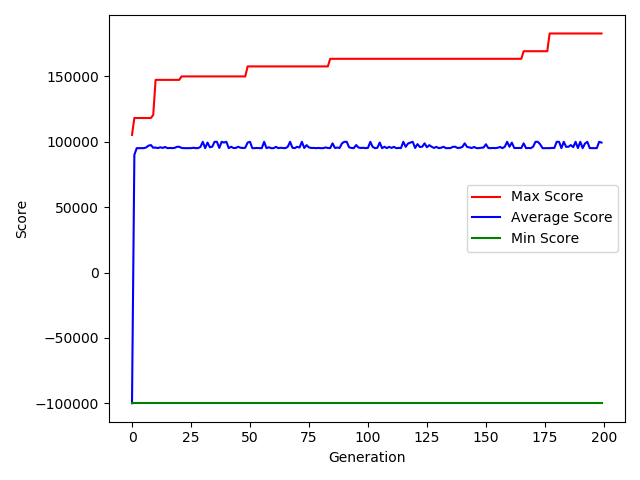
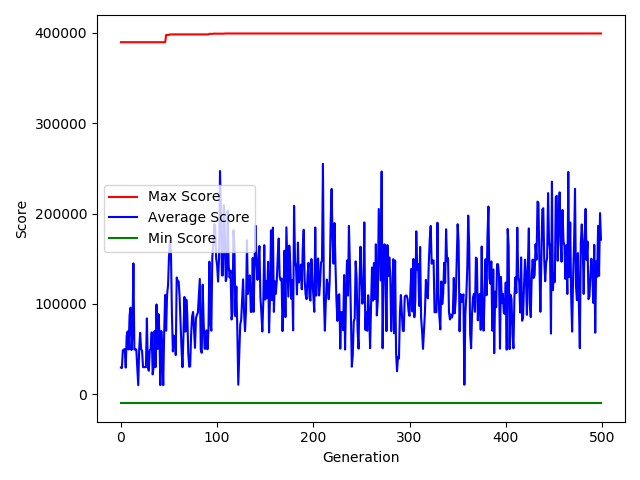
buena ql

diff --git a/varfindnumb.py b/varfindnumb.py
@@ -1,0 +1,39 @@
+from algoritmo.auxfun import ez_plot
+from algoritmo.genetico import AlgoritmoGenetico
+from condicion.condicion import IteracionesCondicion
+from ffuncion.fitnessfunctions import VarCheckIgualdad
+from structs.ast import *
+
+
+allowed_functions = [AddNode, SubNode, MultNode]
+allowed_terminals = [-10, 2, 3, 4, 10, 'x', 'x', 'x', 'x', 'x']
+
+
+meta = AddNode(
+    SubNode(
+        MultNode(
+            TerminalVariableNode('x'),
+            TerminalVariableNode('x')
+        ),
+        TerminalNode(6)
+    ),
+    TerminalVariableNode('x')
+)
+
+
+ci = IteracionesCondicion(500)
+
+ff = VarCheckIgualdad(meta, 1000, 1000)
+
+ast = AST(allowed_functions, allowed_terminals)
+
+
+def generate_pop(n, depth, ast):
+    return [ast(2) for _ in range(n)]
+
+
+ag = AlgoritmoGenetico(20, ff, ast, 0.4, ci, 2, generate_pop)
+
+res = ag.run()
+
+ez_plot(res)

diff --git a/ffuncion/fitnessfunctions.py b/ffuncion/fitnessfunctions.py
@@ -70,3 +70,20 @@ class IgualdadValorFormulaYProfundidadSinRepeticion(IgualdadValorFormulaYProfund
         gamma = nodo.depth(0) - 1
         score2 = (MAX_SCORE - gamma*MAX_SCORE / self.ddw)
         return max(score1 + score2, -MAX_SCORE)
+
+
+class VarCheckIgualdad(IgualdadValorFormulaYProfundidad):
+    def aplicar(self, nodo):
+        MAX_SCORE = 1000
+        total_score = 0
+        for v in range(-100, 100, 1):
+            nodo.set_val('x', v)
+            self.meta.set_val('x', v)
+            val1 = nodo.eval()
+            val2 = self.meta.eval()
+            delta = abs(val1 - val2) * MAX_SCORE / self.vdw
+            score1 = MAX_SCORE - delta
+            gamma = nodo.depth(0) - 1
+            score2 = (MAX_SCORE - gamma * MAX_SCORE / self.ddw)
+            total_score += score1 + score2
+        return max(total_score, -10*MAX_SCORE)

diff --git a/structs/ast.py b/structs/ast.py
@@ -40,7 +40,10 @@ class AST:
             else:
                 # si `depth` es 0 entonces creamos un nodo terminal con
                 # alguno de los terminales permitidos que definimos inicialmente
-                return TerminalNode(random.choice(self.terminals))
+                c = random.choice(self.terminals)
+                if isinstance(c, str):
+                    return TerminalVariableNode(c)
+                return TerminalNode(c)
 
         # llamamos a la funcion auxiliar para crear un arbol de profundidad `max_depth`
         return create_rec_tree(max_depth)

diff --git a/algoritmo/auxfun.py b/algoritmo/auxfun.py
@@ -22,6 +22,6 @@ def ez_plot(ret):
 
     fig, ax1= plt.subplots()
     ax1.set_xlabel('Generation')
-    ax1.set_ylabel('Execution Time (s)')
-    ax1.plot(ret[:, 3], c='r', label='Execution time')
+    ax1.set_ylabel('Execution Time p/Generation (s)')
+    ax1.plot(ret[:, 3], c='r', label='Execution time per generation')
     plt.show()

diff --git a/algoritmo/genetico.py b/algoritmo/genetico.py
@@ -54,7 +54,7 @@ class AlgoritmoGenetico:
 
     def meta(self):
         max_puntaje = np.amax(self.puntajes)
-        pt_promedio = np.median(self.puntajes)
+        pt_promedio = np.average(self.puntajes)
         min_puntaje = np.amin(self.puntajes)
         return max_puntaje, pt_promedio, min_puntaje
 

diff --git a/README.md b/README.md
@@ -22,6 +22,9 @@ de la generación.
 
 ![Figure 1](https://github.com/solzhen/tarea3rrnn/blob/master/figs/Figure_1.png)
 
+El ganador es una expresión demasiado larga como para ponerla aquí.
+
+
 El siguiente gráfico muestra el tiempo de ejecución por generación, 
 es decir, el tiempo que demoró
 el programa en ejecutar los procesos de validación, selección y reproducción
@@ -48,7 +51,7 @@ como límite, tasa de mutación de 0.2:
 
 El ganador fue la siguiente expressión:
 
-**((max({25, 4}) * max({100, 4})) + ((25 * 25) * 100))**
+**((100 + 4) * (25 * 25))**
 
 Que da como resultado 65000
 
@@ -62,27 +65,72 @@ también se redujo el tiempo de ejecución por generación:
 Modificada la función fitness para otorgar el puntaje minimo si
 se repite algún nodo terminal con un mismo valor.
 
+Con 500 generaciones, población de 200 y una tasa de mutación de 0.5 se tiene:
+  
 ![Figure 5](https://github.com/solzhen/tarea3rrnn/blob/master/figs/Figure_5.png)
-
-La siguiente expresión:
- 
-**((4 * 7) * (100 * 25))**
-  
-que da 70000.
-  
-Con 500 generaciones y una tasa de mutación de 0.5 se tiene:
-  
-![Figure 6](https://github.com/solzhen/tarea3rrnn/blob/master/figs/Figure_6.png)
 
 Donde el ganador es la siguiente expresión:
 
- **(((100 - 8) * 7) * (4 * 25))**
+**((4 * (25 - 2)) * (7 * 100))**
 
 Que da como resultado 64400
 
 ## 2. Variables
 
+Para añadir variables añadí una subclase a TerminalNode que guarda
+un nombre de variable además del valor. El valor puede ser cambiado
+utilizando un método (añadido a Node), lo que permite evaluar un árbol entero asignando
+un valor específico a un nomrbe de variable. Sobre el nodo principal
+se llama set_val con 2 argumentos. El primero indica el nombre de la variable
+y el segundo el valor. Luego se puede evaluar como cualquier otro.
+
+```python
+class Node:
+    ...
+    def set_val(self, name, val):
+        for node in self.arguments:
+            node.set_val(name, val)
+...
+class TerminalNode(Node):
+    ...
+    def set_val(self, name, value):
+        pass
+...
+class TerminalVariableNode(TerminalNode):
+    def __init__(self, name):
+        assert isinstance(name, str)
+        self.value = 0
+        super(TerminalVariableNode, self).__init__(self.value)
+        self.name = name
+        
+    def __repr__(self):
+        return str(self.name)
+
+    def set_val(self, name, value):
+        self.value = value if self.name == name else self.value
+```
+
+También cambié AST para que al crear el nodo terminal lo hiciese
+en función del tipo (si era un string entonces era un terminal
+variable).
+
 ## 3. Symbolic Regression
+
+Se busca una expressión que se parezca a \
+ **x * x + x - 6**
+
+Población: 20\
+Maxima Generacion: 500\
+Tasa de mutación: 0.4
+(nota: Le di menos peso a la penalización
+por tamaño en comparación a
+una expresión equivalente)
+
+![Figure 6](https://github.com/solzhen/tarea3rrnn/blob/master/figs/Figure_6.png)
+
+El ganador fue la expresión \
+**((4 + (x * x)) + (x - 10))** \
+Que es equivalente en valor al buscado.
 
 ## 4. División
 
